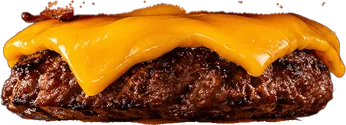
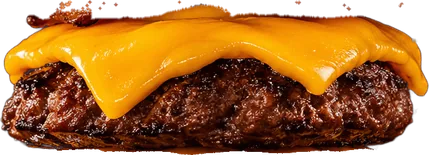
Camadas -sm a 62% e sizes pelo vw: celular baixa a versão leve

diff --git a/src/data/burger3d.ts b/src/data/burger3d.ts
@@ -5,9 +5,10 @@ export interface BurgerPiece {
   id: string
   src: string
   srcSmall: string
-  /** Tamanho do arquivo em px. */
+  /** Tamanho do arquivo em px (e largura da versão -sm). */
   width: number
   height: number
+  widthSmall: number
   /** Caixa da peça no hambúrguer montado, em % do quadro (x/w da largura, y/h da altura). */
   x: number
   y: number
@@ -23,10 +24,10 @@ export const BURGER_FRAME_RATIO = 0.92
 export const BURGER_MAX_SPREAD = 31.41
 
 export const burgerPieces: BurgerPiece[] = [
-  { id: 'pao-topo', src: '/images/burger-layers/3d-pao-topo.webp', srcSmall: '/images/burger-layers/3d-pao-topo-sm.webp', width: 684, height: 297, x: 9.56, y: 0, w: 86.04, h: 34.3, spread: -15.7 },
-  { id: 'maionese', src: '/images/burger-layers/3d-maionese.webp', srcSmall: '/images/burger-layers/3d-maionese-sm.webp', width: 480, height: 160, x: 23.4, y: 22.17, w: 60.38, h: 18.48, spread: -7.97 },
-  { id: 'bacon', src: '/images/burger-layers/3d-bacon.webp', srcSmall: '/images/burger-layers/3d-bacon-sm.webp', width: 795, height: 169, x: 0, y: 26.44, w: 100, h: 19.52, spread: -2.77 },
-  { id: 'carne-1', src: '/images/burger-layers/3d-carne-1.webp', srcSmall: '/images/burger-layers/3d-carne-1-sm.webp', width: 692, height: 250, x: 8.55, y: 35.8, w: 87.04, h: 28.87, spread: 3.58 },
-  { id: 'carne-2', src: '/images/burger-layers/3d-carne-2.webp', srcSmall: '/images/burger-layers/3d-carne-2-sm.webp', width: 692, height: 223, x: 6.42, y: 55.54, w: 87.04, h: 25.75, spread: 11.09 },
-  { id: 'pao-base', src: '/images/burger-layers/3d-pao-base.webp', srcSmall: '/images/burger-layers/3d-pao-base-sm.webp', width: 690, height: 204, x: 8.05, y: 76.44, w: 86.79, h: 23.56, spread: 15.7 },
+  { id: 'pao-topo', src: '/images/burger-layers/3d-pao-topo.webp', srcSmall: '/images/burger-layers/3d-pao-topo-sm.webp', width: 684, height: 297, widthSmall: 424, x: 9.56, y: 0, w: 86.04, h: 34.3, spread: -15.7 },
+  { id: 'maionese', src: '/images/burger-layers/3d-maionese.webp', srcSmall: '/images/burger-layers/3d-maionese-sm.webp', width: 480, height: 160, widthSmall: 298, x: 23.4, y: 22.17, w: 60.38, h: 18.48, spread: -7.97 },
+  { id: 'bacon', src: '/images/burger-layers/3d-bacon.webp', srcSmall: '/images/burger-layers/3d-bacon-sm.webp', width: 795, height: 169, widthSmall: 493, x: 0, y: 26.44, w: 100, h: 19.52, spread: -2.77 },
+  { id: 'carne-1', src: '/images/burger-layers/3d-carne-1.webp', srcSmall: '/images/burger-layers/3d-carne-1-sm.webp', width: 692, height: 250, widthSmall: 429, x: 8.55, y: 35.8, w: 87.04, h: 28.87, spread: 3.58 },
+  { id: 'carne-2', src: '/images/burger-layers/3d-carne-2.webp', srcSmall: '/images/burger-layers/3d-carne-2-sm.webp', width: 692, height: 223, widthSmall: 429, x: 6.42, y: 55.54, w: 87.04, h: 25.75, spread: 11.09 },
+  { id: 'pao-base', src: '/images/burger-layers/3d-pao-base.webp', srcSmall: '/images/burger-layers/3d-pao-base-sm.webp', width: 690, height: 204, widthSmall: 428, x: 8.05, y: 76.44, w: 86.79, h: 23.56, spread: 15.7 },
 ]

diff --git a/src/components/sections/BurgerExploded.tsx b/src/components/sections/BurgerExploded.tsx
@@ -187,8 +187,8 @@ export function BurgerExploded() {
                     <img
                       data-art
                       src={p.src}
-                      srcSet={`${p.srcSmall} ${Math.round(p.width / 2)}w, ${p.src} ${p.width}w`}
-                      sizes={`(min-width: 1024px) ${Math.round(p.w * 4.2)}px, ${Math.round(p.w * 3.3)}px`}
+                      srcSet={`${p.srcSmall} ${p.widthSmall}w, ${p.src} ${p.width}w`}
+                      sizes={`(min-width: 1024px) ${Math.round(p.w * 4.2)}px, min(${Math.round(p.w * 0.6)}vw, ${Math.round(p.w * 3.3)}px)`}
                       width={p.width} height={p.height}
                       alt="" aria-hidden="true" draggable={false}
                       loading="lazy" decoding="async"
